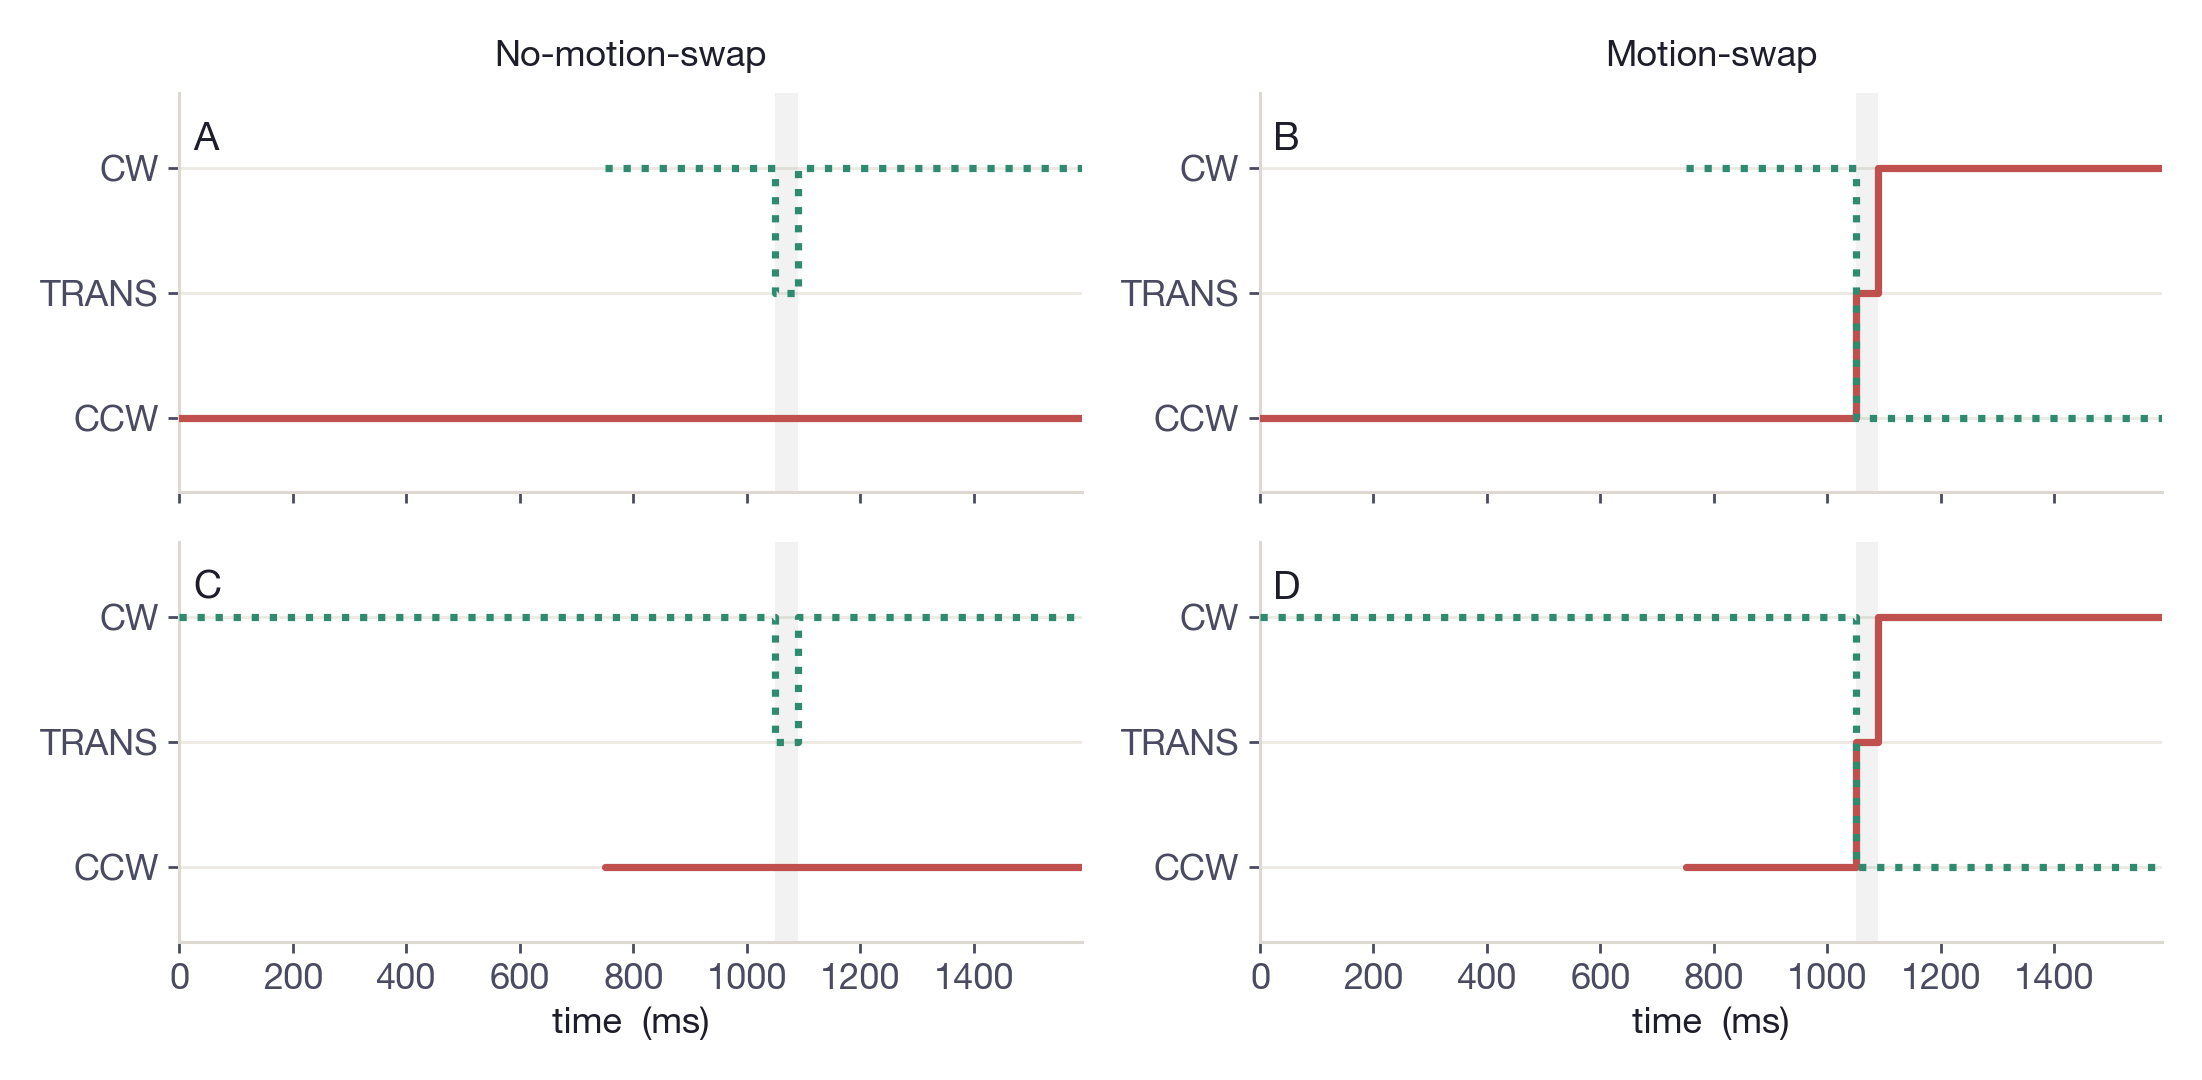
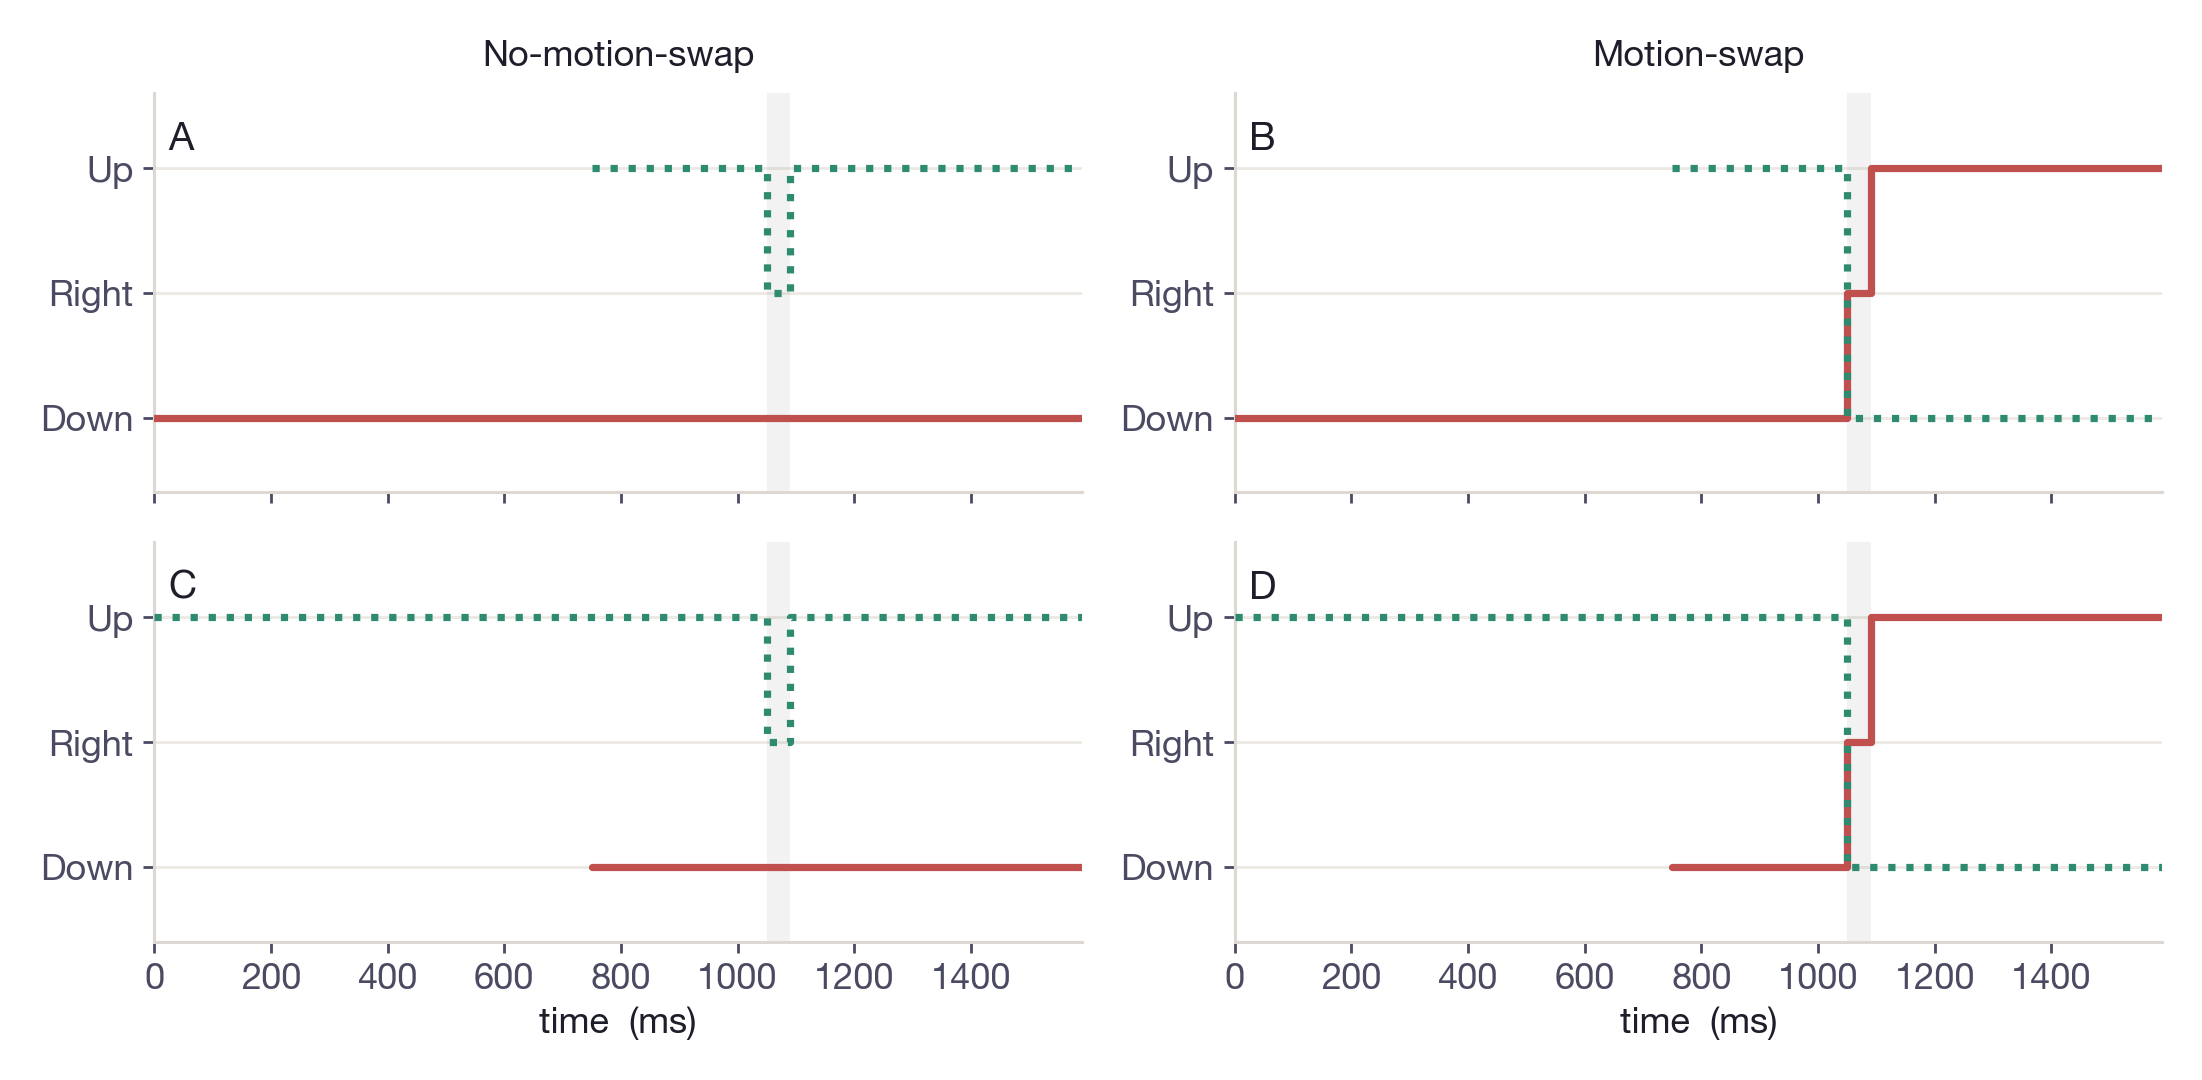
Modeling: Up/Right/Down labels on the input/trajectory toggle pair
Single-RF (left-positioned MT hypercolumn) interpretation: CW->Up, CCW->Down,
translation->Right. Updates the toggle-pair figures + caption. The
collaborators/data motionswap figure stays on CW/TRANS/CCW (its caption names
those coordinates).

diff --git a/content/model-traj-input-toggle-caption.md b/content/model-traj-input-toggle-caption.md
@@ -1,1 +1,1 @@
-**Figure 4.** **Feature trajectories ⟷ what the model sees.** Toggle (or let it alternate) between two views of the same four conditions (A–D, after Stoner & Blanc, 2010, Fig. 4). **Feature trajectories:** each field's motion direction over time — *color* = the field's dot color, *line style* = field identity (dotted = the field that briefly translates), with vertical jumps marking transitions. **What the model sees:** the very same panels with identity discarded — every line now black, solid, and reduced to the motion directions present (no color, no identity, no transitions). That stripping is exactly the abstraction the motion-competition model performs: it pools over *which* dots carry each direction. Once you do, **A and B become identical, as do C and D** — the motion swap reproduces the opposite cue's no-swap input; it only relabels which dots translate (cued ↔ uncued), leaving the directional input unchanged. Because the model sees only the second view, it cannot tell A from B or C from D, and is forced to predict that the cued advantage *reverses* under a motion swap — the prediction the behavioral data refute. The gray band marks the 40 ms translation; the brief onset offset (≈ 750 ms) is the delayed onset of the second field.
+**Figure 4.** **Feature trajectories ⟷ what the model sees.** Toggle (or let it alternate) between two views of the same four conditions (A–D, after Stoner & Blanc, 2010, Fig. 4). Here we take the concrete case of a single MT hypercolumn whose collective receptive field sits on the *left* of the rotating display: there, clockwise rotation is locally **upward** motion, counter-clockwise rotation is locally **downward** motion, and the coherent shift is a **rightward** translation — so the three direction channels read as Up / Right / Down. **Feature trajectories:** each field's motion direction over time — *color* = the field's dot color, *line style* = field identity (dotted = the field that briefly translates), with vertical jumps marking transitions. **What the model sees:** the very same panels with identity discarded — every line now black, solid, and reduced to the motion directions present (no color, no identity, no transitions). That stripping is exactly the abstraction the motion-competition model performs: it pools over *which* dots carry each direction. Once you do, **A and B become identical, as do C and D** — the motion swap reproduces the opposite cue's no-swap input; it only relabels which dots translate (cued ↔ uncued), leaving the directional input unchanged. Because the model sees only the second view, it cannot tell A from B or C from D, and is forced to predict that the cued advantage *reverses* under a motion swap — the prediction the behavioral data refute. The gray band marks the 40 ms translation; the brief onset offset (≈ 750 ms) is the delayed onset of the second field.